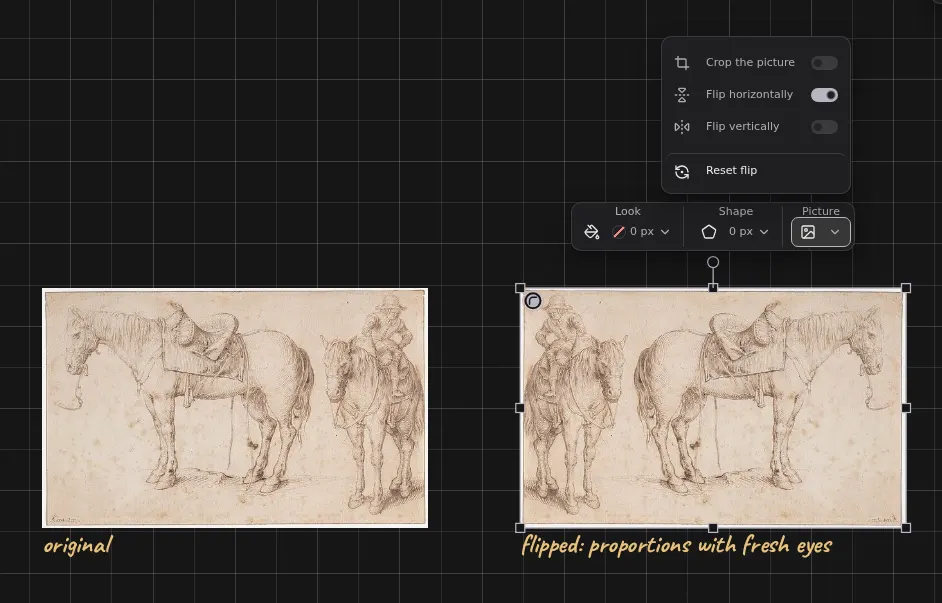
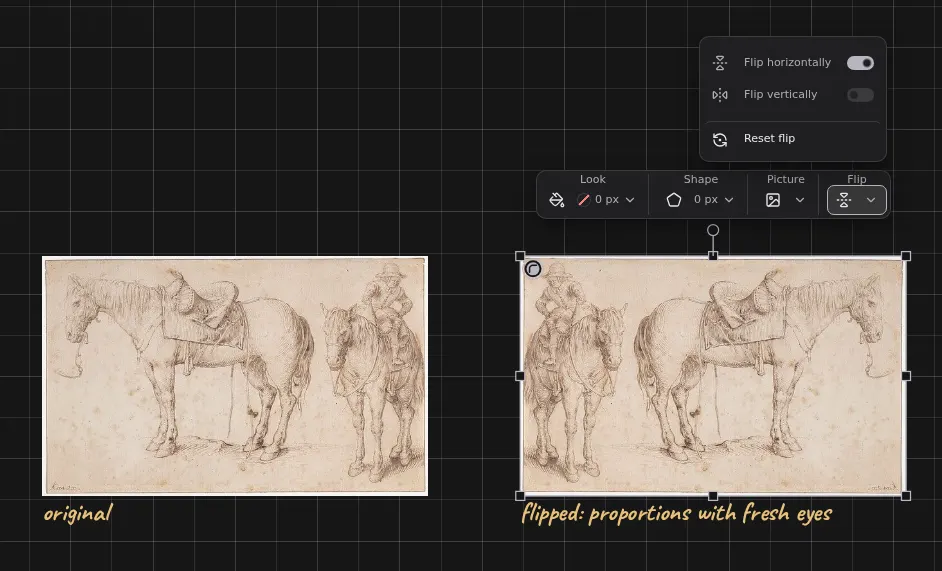
test: specs follow the new words and the Flip chip; the Flip picture taken again (v0.59.2)

diff --git a/tests/e2e/bar-layouts.spec.ts b/tests/e2e/bar-layouts.spec.ts
@@ -33,7 +33,7 @@ test("a shape drawn with the Shape tool: its chips stand above it and edit it, t
   await expect(p.getByRole("radio", { name: "Shape and path" })).toHaveAttribute("aria-checked", "true");
   const near = p.locator(".props-near");
   // (named groups as the Actions bar's: the section's name, and on its chip the section's icon and value)
-  await expect(near.locator(".tb-cap")).toHaveText(["Look", "Shape", "Size"]);
+  await expect(near.locator(".tb-cap")).toHaveText(["Look", "Shape", "Flip", "Size"]);
   expect((await near.boundingBox())!.y + (await near.boundingBox())!.height, "the chips above the shape, clear of its rotate handle (26 px over it)").toBeLessThanOrEqual(380 - 26 - 6);
   // the Shape chip: its corner radius is the drawn shape's
   const chip = near.locator('[data-vchip="shape"]');
@@ -51,7 +51,7 @@ test("a shape drawn with the Shape tool: its chips stand above it and edit it, t
   await p.mouse.move(slider.x + slider.width * 0.3, slider.y + slider.height / 2);
   await p.mouse.down();
   await p.mouse.move(slider.x + slider.width * 0.7, slider.y + slider.height / 2, { steps: 4 });
-  await expect(near.locator(".tb-cap"), "while the colour is dragged").toHaveText(["Look", "Shape", "Size"]);
+  await expect(near.locator(".tb-cap"), "while the colour is dragged").toHaveText(["Look", "Shape", "Flip", "Size"]);
   await p.mouse.up();
   const hex = p.locator(".colour-pop [data-hex]");
   await hex.fill("ff8800");
@@ -136,7 +136,7 @@ test("a speech balloon's options are chips (Body, Tail) with the forms of every 
   await p.keyboard.press("v");
   await p.mouse.click(680, 480);
   const near = p.locator(".props-near");
-  await expect(near.locator(".tb-cap")).toHaveText(["Look", "Body", "Tail", "Size"]);
+  await expect(near.locator(".tb-cap")).toHaveText(["Look", "Body", "Tail", "Flip", "Size"]);
   await expect(p.getByTestId("balloon-panel"), "no panel of its own any more").toHaveCount(0);
   expect(await auditChips(app, ".props-near")).toEqual([]);
   const tails = () => p.evaluate(() => (window.__canvastDebug.objects().find((o) => o["params"]) as unknown as { params: { balloon: { tails: Array<{ width: number }> } } }).params.balloon.tails);

diff --git a/tests/e2e/sheets.spec.ts b/tests/e2e/sheets.spec.ts
@@ -698,16 +698,16 @@ test("Export… of several sheets: each at the width chosen with its own shape, 
   expect(names.some((n) => n!.endsWith("600x400.png")) && names.some((n) => n!.endsWith("600x1200.png"))).toBe(true);
   // one left out without leaving the dialog: the other leaves alone, as a file of its own
   await dlg.locator('[data-mini="1"] .ex-frame').click(); // (anywhere on the picture, not only its box)
-  await expect(dlg.getByTestId("export-count")).toHaveText("1 of 2 items");
+  await expect(dlg.getByTestId("export-count")).toHaveText("1 of 2 objects");
   await expect(dlg.locator('[data-mini="1"] [data-tick]')).not.toBeChecked();
   const [alone] = await Promise.all([p.waitForEvent("download"), dlg.locator('[data-ex="download"]').click()]);
   expect(alone.suggestedFilename()).toMatch(/^01-Sheet \d+-600x\d+\.png$/);
   // Shift+click sets a run like the last one clicked: the first left out too, then All brings them back
   await dlg.locator('[data-mini="0"] .ex-frame').click();
   await dlg.locator('[data-mini="1"] .ex-frame').click({ modifiers: ["Shift"] });
-  await expect(dlg.getByTestId("export-count")).toHaveText("0 of 2 items");
+  await expect(dlg.getByTestId("export-count")).toHaveText("0 of 2 objects");
   await dlg.locator('[data-ex="all"]').click();
-  await expect(dlg.getByTestId("export-count")).toHaveText("All 2 items");
+  await expect(dlg.getByTestId("export-count")).toHaveText("All 2 objects");
   // the same sheets as one PDF: a page each, at the physical size (600 px at 300 ppi is 2 in = 144 pt)
   await dlg.locator('[data-output="pdf"]').click();
   await expect(dlg.locator('[data-ex="copy"]')).toBeDisabled();

diff --git a/src/ui/settings-view.ts b/src/ui/settings-view.ts
@@ -441,7 +441,7 @@ export function mountSettingsView(root: HTMLElement, settings: SettingsStore, ke
       : t.id === "sharing"
         ? ""
       : t.id === "shortcuts"
-        ? `<div class="set-info set-keys"><p>Every shortcut can be changed, to one key or to several together (Ctrl+Shift+F, Alt+Q). Click <strong>Change</strong>, then press the keys you want; <strong>Add</strong> gives the command another key; the <strong>×</strong> takes a key away; Escape cancels. You are warned when a key is already used, or when the browser or the system may take it.</p>
+        ? `<div class="set-info set-keys"><p>Every shortcut can be changed, to one key or to several together (Ctrl+Shift+F, Alt+Q). Click <strong>Change</strong>, then the keys you want; <strong>Add</strong> gives the command another key; the <strong>×</strong> takes a key away; Escape cancels. You are warned when a key is already used, or when the browser or the system may take it.</p>
            <p><button type="button" class="set-reset" data-keys-reset-all>Reset every shortcut</button></p>
            <div data-tool-keys></div><div class="set-note" data-key-note role="status" aria-live="polite"></div><h3 class="set-sub">Fixed shortcuts</h3>${FIXED_SHORTCUTS.map((g) => `<div class="set-card"><h4>${esc(g.group)}</h4><dl>${g.items.map((i) => `<dt><kbd>${esc(i.keys)}</kbd></dt><dd>${esc(i.does)}</dd>`).join("")}</dl></div>`).join("")}</div>`
       : t.id === "storage"

diff --git a/tests/unit/paint.test.ts b/tests/unit/paint.test.ts
@@ -184,7 +184,8 @@ describe("a mirrored paint (Flip, ADR 0203)", () => {
   const lin: Gradient = { type: "linear", x0: 0.1, y0: 0.2, x1: 0.9, y1: 0.6, stops };
   const ang: Gradient = { type: "angular", cx: 0.3, cy: 0.4, angle: 30, stops };
   it("moves a gradient's points to the other side of its box; twice is the same paint; a colour stays", () => {
-    expect(mirroredPaint(lin, "x")).toEqual({ ...lin, x0: 0.9, x1: 0.1 });
+    const m = mirroredPaint(lin, "x") as Extract<Gradient, { type: "linear" }>;
+    expect([m.x0, m.y0, m.x1, m.y1].map((v) => Math.round(v * 1e9) / 1e9)).toEqual([0.9, 0.2, 0.1, 0.6]);
     expect(mirroredPaint(mirroredPaint(ang, "y"), "y")).toEqual(ang);
     expect(mirroredPaint("#123456", "x")).toBe("#123456");
   });

diff --git a/tests/e2e/assets.spec.ts b/tests/e2e/assets.spec.ts
@@ -2005,7 +2005,7 @@ test("in-canvas tags: rename and delete a tag on every canvas, from the Tags pan
   await expect.poll(() => tagsOf(first)).toEqual(["cloud", "keep"]);
   await saved(p);
   // The panel lists the tags of this canvas with their counts; pressing one selects its items.
-  await p.getByRole("button", { name: "Select the 1 item tagged keep" }).click();
+  await p.getByRole("button", { name: "Select the 1 object tagged keep" }).click();
   expect(await p.evaluate(() => window.__canvastDebug.selection())).toEqual([first]);
   await openCanvas(p, /Canvas 2/, "Board 1 › Canvas 2");
   await expect.poll(() => tagsOf(second)).toEqual(["cloud"]);

diff --git a/tests/e2e/files.spec.ts b/tests/e2e/files.spec.ts
@@ -23,7 +23,7 @@ test("any file imports: a 3D model becomes a card on the canvas and in the libra
   // The Object names button (bottom right) cycles: shown, shown when picked, hidden.
   const labels = () => p.evaluate(() => window.__canvastDebug.itemLabels().map((l) => l.text));
   const names = p.getByRole("button", { name: /^Object names/ });
-  await expect(names).toHaveAttribute("aria-label", /shown on every item/);
+  await expect(names).toHaveAttribute("aria-label", /shown on every object/);
   await names.click();
   await expect(names).toHaveAttribute("aria-label", /shown on the selected objects/);
   await expect.poll(labels).toEqual([]);

diff --git a/docs/status.md b/docs/status.md
@@ -47,6 +47,13 @@ Unverified / Committed / Next bounded task**.
 - **Committed:** v0.57.19 on `main`.
 - **Next bounded task:** retake the README screenshots in Stone when the owner says.
 
+## v0.59.2: tests follow the new words; the Flip picture (2026-11-15)
+
+- **Implemented:** specs updated for objects (export count, Object names, tag rows), the Flip chip in the chip lists of `bar-layouts.spec`, the mirrored-gradient unit test made exact to 1e-9; `flip.webp` taken again (Screenshots run on `shots-flip-0591`).
+- **Tested:** 0.59.1 on GitHub: Pan and zoom green; CI failed on the float compare in the new unit test, Tests on the old words in five specs and the chip lists; the flip specs passed. Fixed here; read the new runs.
+- **Committed:** v0.59.2 on `main`.
+- **Next bounded task:** read CI and Tests on 0.59.2.
+
 ## v0.59.1: Flip for shapes and paths; the words audit (2026-11-14)
 
 - **Implemented:** Flip for shapes and paths and several selected flipped as one (ADR 0203: `mirrored`, `mirroredPaint`, `flipSelection`, the Flip section, `Shift+H`/`Shift+V`); the words audit (objects on the canvas, items in the Library, click for buttons, picture, Object names, `StyleKind.hint`), README text with it.

diff --git a/CHANGELOG.md b/CHANGELOG.md
@@ -1,5 +1,10 @@
 # Changelog
 
+## 0.59.2 — The Flip picture, tests for the new words (2026-11-15)
+
+- **Changed:** the README's Flip picture shows the Flip chip.
+- **Fixed:** the Shortcuts page said "press the keys" twice, so its waiting key could not be told apart.
+
 ## 0.59.1 — Flip for shapes and paths, one word per idea (2026-11-14)
 
 - **Added:** **Flip horizontally** and **Flip vertically** for shapes and paths, as pictures have: their points, gradients and a speech balloon's tails are mirrored, a turned one turns the other way. The buttons are in a **Flip** chip of their own; `Shift+H` and `Shift+V` and the command palette do it too.
